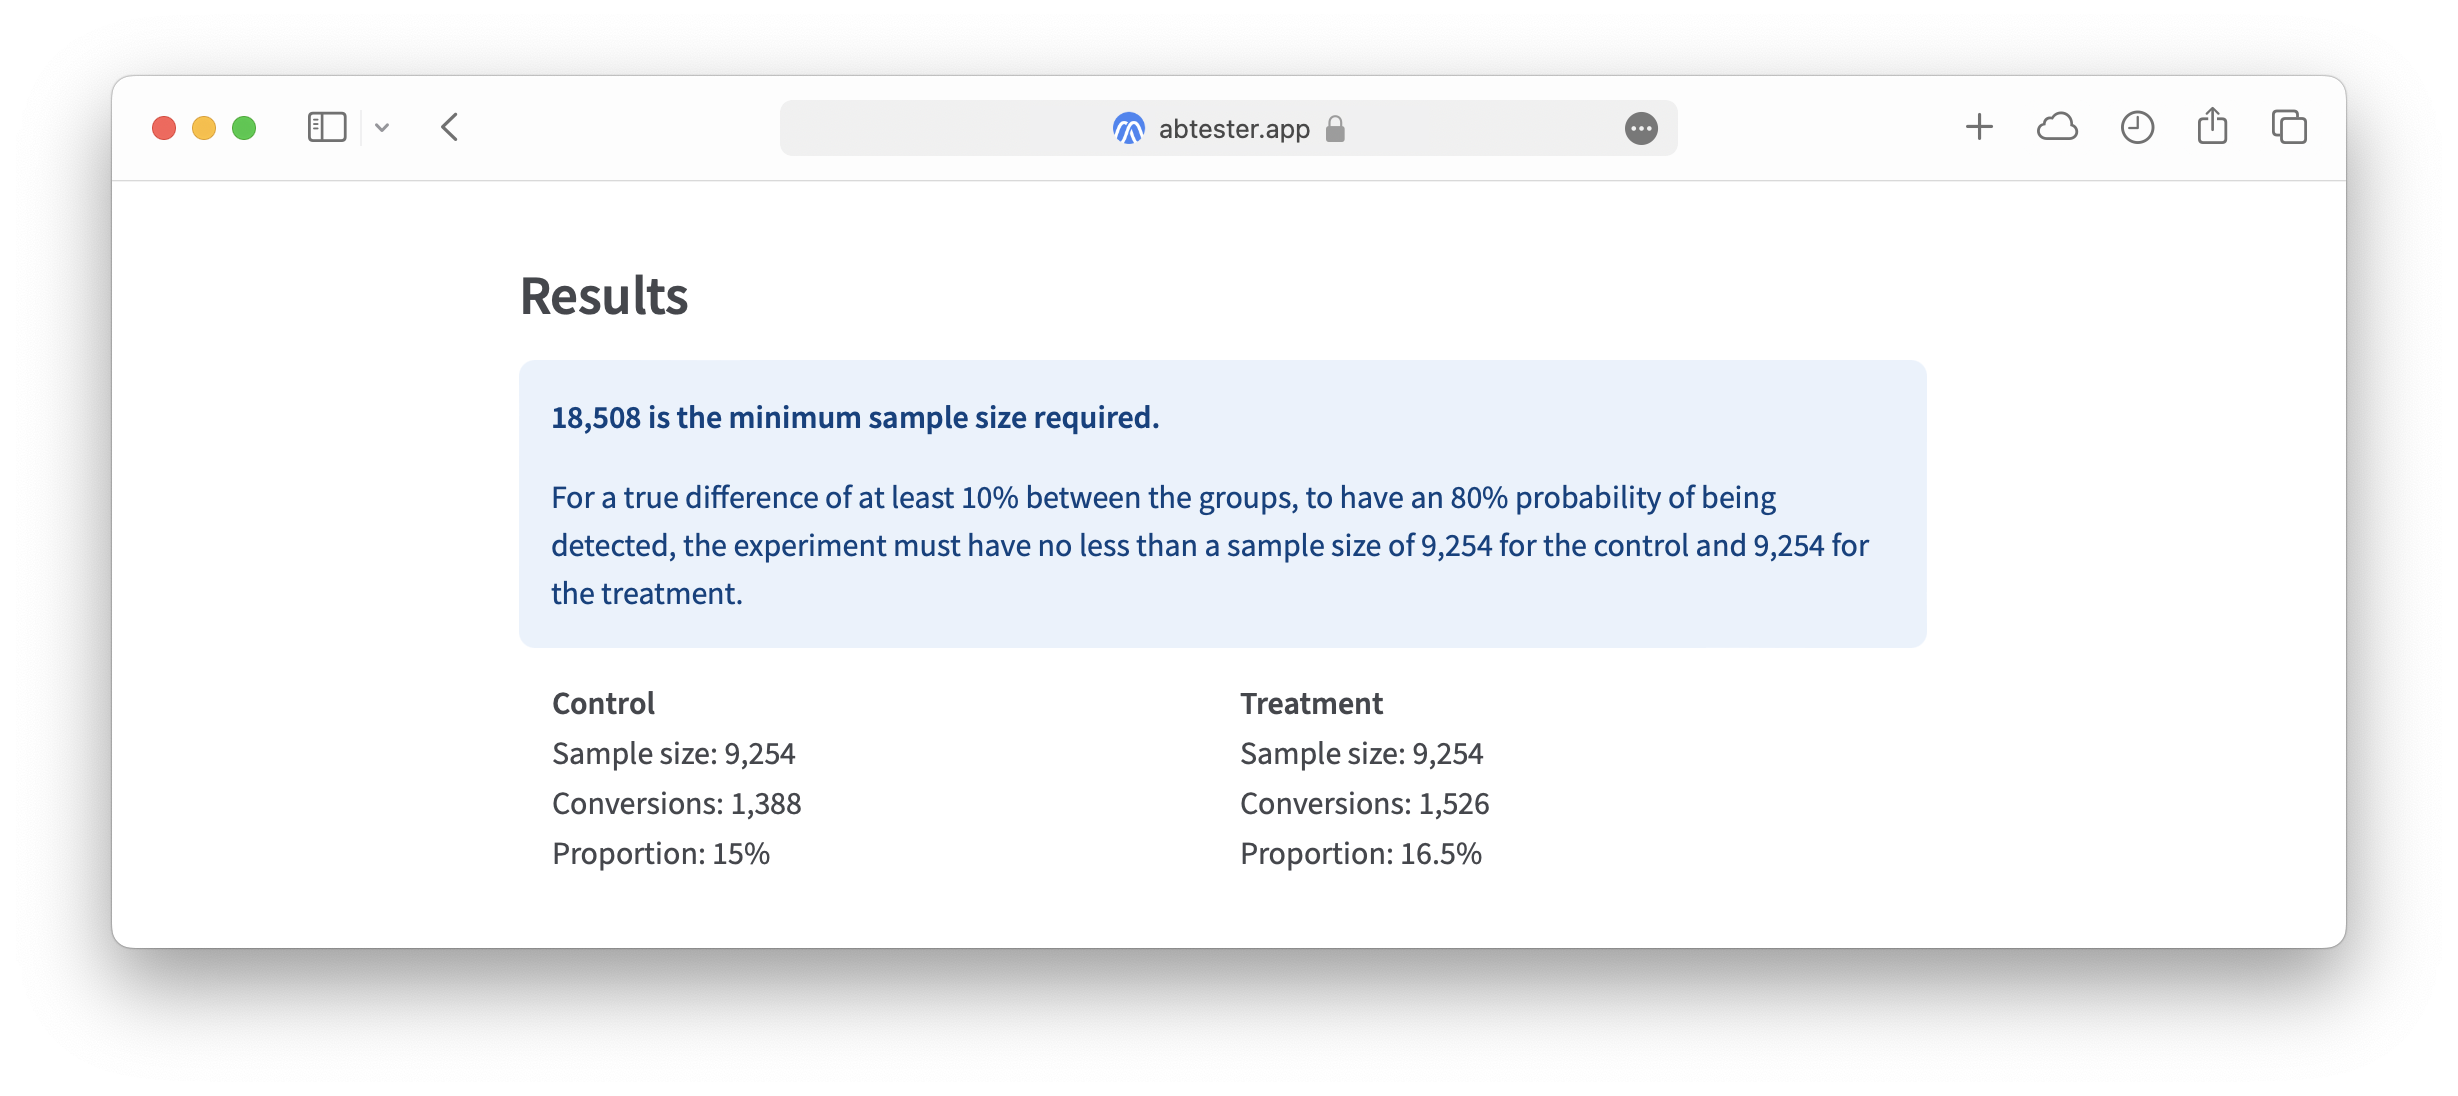
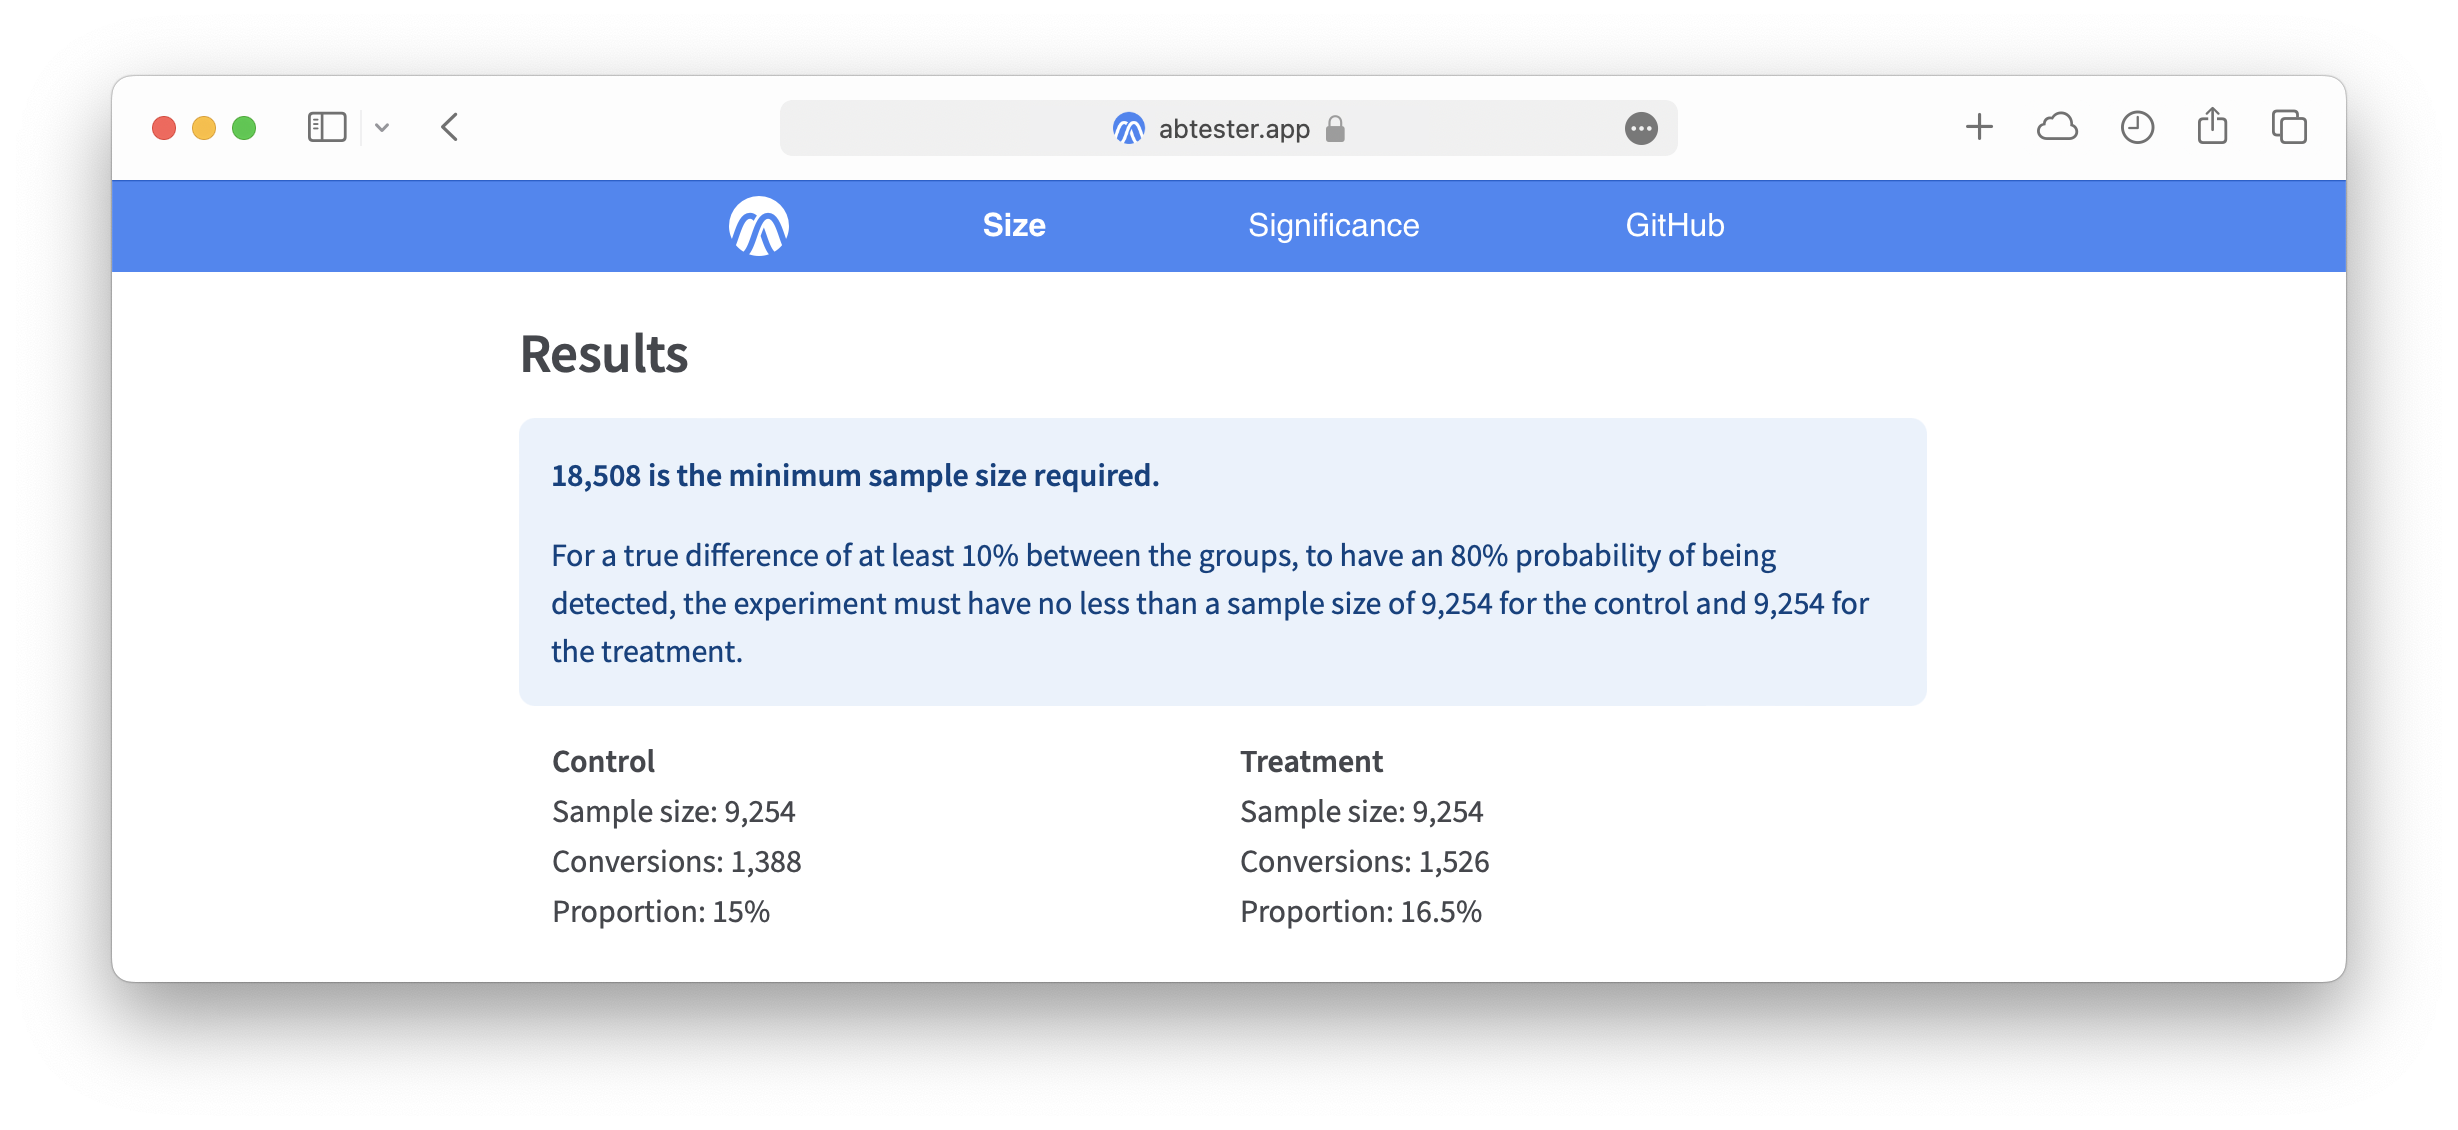
docs: Show navbar in the images

diff --git a/README.md b/README.md
@@ -31,4 +31,4 @@ To submit code for a pull request, make sure to read the
 
 ## Contact
 
-If you would like to provide feedback, learn more about abtester, or anything else, send an email to <contact@abtester.app>.
+If you would like to provide feedback, learn more about abtester, or anything else, please send an email to <contact@abtester.app>.
